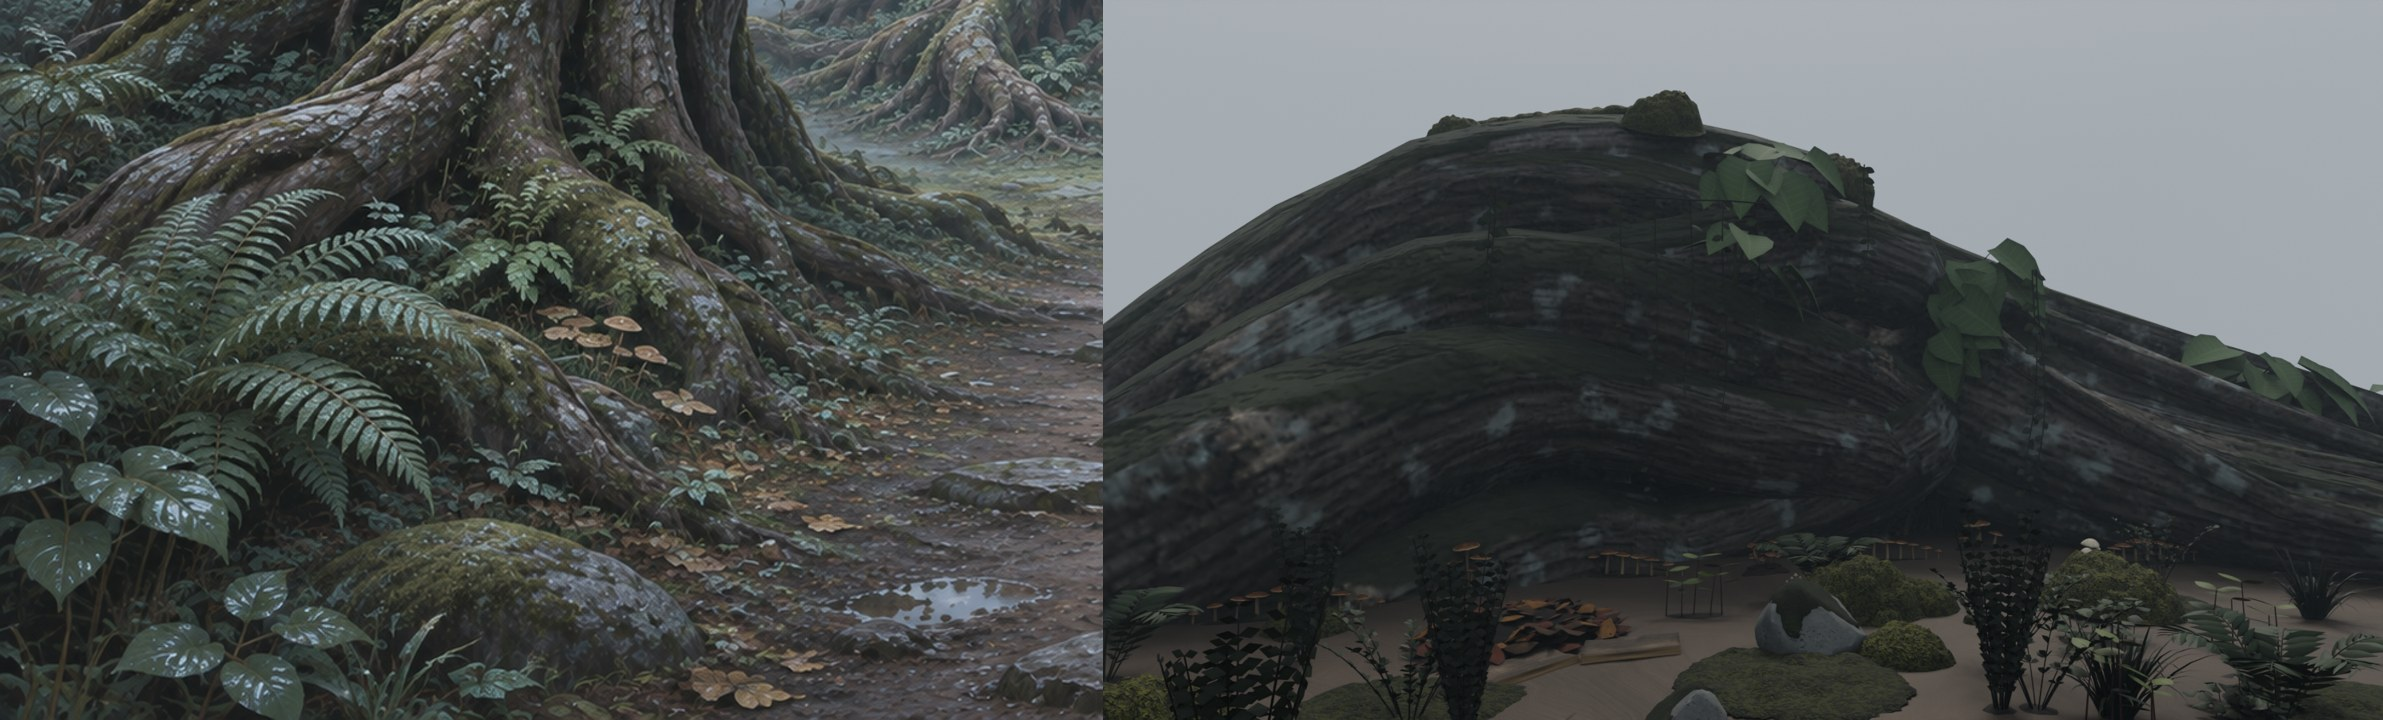
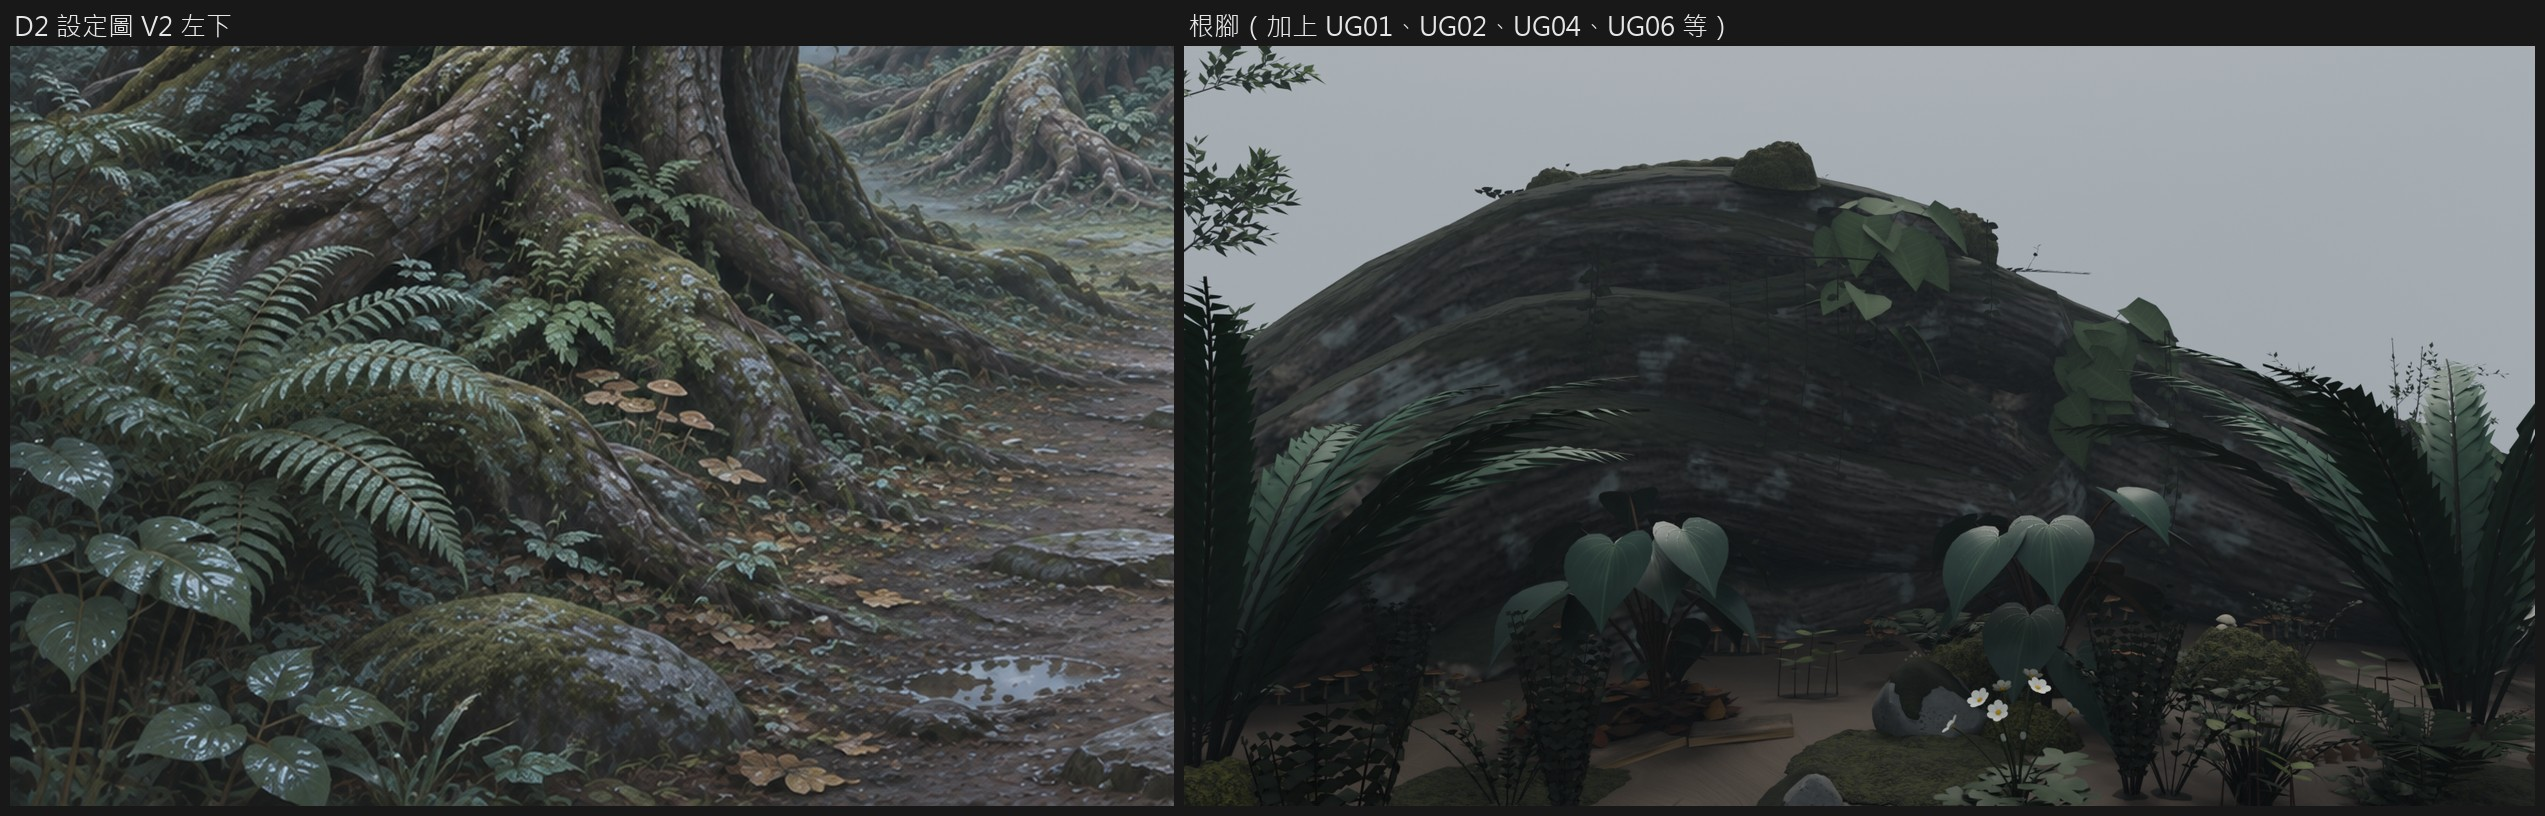
全包檢查重拍：加上 SH02、SP01、UG01–UG06（林地一角和根腳自評各約 35%）

diff --git a/art/source/d2-floor-c/pack_check.py b/art/source/d2-floor-c/pack_check.py
@@ -1,5 +1,5 @@
 """Whole-pack check for C's 11/15 D2 small-life pack (C-300h-D2-small-life.md, 全包檢查): A (DP01–04 mushrooms), B (DP06–13 moss and
-small plants), C (DP14–22 floor smalls) and SH01, set out as (1) a 5 × 5 m forest-floor corner framed like setting view V6 and
+small plants), C (DP14–22 floor smalls), and from the 11/14 pack batch B the undergrowth SH01–02, SP01, UG01–06 (2026-11-24), set out as (1) a 5 × 5 m forest-floor corner framed like setting view V6 and
 (2) a root foot (one of Josh's D2 roots with mushrooms, moss and vines) framed like the lower left of V2.
 Blender 4.5.3:  blender -b --factory-startup -P pack_check.py -- --dirs <export dir> [<export dir> ...] --out <dir> [--samples 96]
 The export dirs are searched in order for <ID>_v002.glb, then <ID>_v001.glb (and for Josh's DR roots / logs in their sub-folders).
@@ -134,6 +134,15 @@ def corner():
     for pid,x,y,r in (('DP17_08',1.05,-.5,.4),('DP17_07',-.35,-1.75,1.),('DP17_06',.35,-1.5,2.2),('DP17_04',-.15,-.95,.3),('DP17_05',-.95,-.55,1.1),
                       ('DP14_06',.75,-.95,.5),('DP14_05',.85,-.75,.3),('DP14_08',.45,-.35,1.3),('DP14_07',-.4,.9,.2),('DP16_06',-1.3,.35,.9),('DP16_05',-1.05,.85,2.)):load(pid,x,y,r)
     load('DP22_01',.05,-.6,.3,sink=0.);puddle(.05,-.6,.32,.22)
+    # 11/14 batch B undergrowth: waist-high ferns and strap-leaved plants on the right by the log, white flowers lower right,
+    # heart-leaved plants and a fern on the left bank, leaf heaps by the path, a vine along the log, shrubs and saplings behind
+    for pid,x,y,r in (('UG01',2.05,.85,.4),('UG01',-1.95,.35,2.2),('UG01',.95,1.75,1.3),('UG03',1.05,.55,.8),('UG03',1.35,-.45,2.6),('UG02',-1.55,-1.15,.9),('UG02',-2.25,1.2,2.9),
+                      ('UG04',1.0,-1.05,.3),('UG04',.75,-1.35,1.9),('UG04',1.3,-1.3,4.),('UG04',-.8,-1.2,.7),('UG05_01',-.7,-1.55,.4),('UG05_02',-1.05,1.75,2.),('UG05_01',.95,1.05,3.5),
+                      ('SH02',-1.25,3.1,.2),('SH02',2.35,3.35,2.5),('SH01',.95,3.9,4.1),('SP01',.45,4.6,.3),('SP01',-1.85,4.4,2.)):load(pid,x,y,r)
+    lt=[(t_,surface(2.6+.25*t_*math.cos(-.79),-.9+.25*t_*math.sin(-.79))) for t_ in range(-6,7)]   # the top of the fallen trunk along its length
+    for pid,k in (('UG06_02',4),('UG06_01',9)):
+        t_,h=lt[k];x=2.6+.25*t_*math.cos(-.79);y=-.9+.25*t_*math.sin(-.79)
+        if h[1] is not None and h[0]>.2:load(pid,x,y,-.79,z=h[0]-.004,tilt=False)
     scatter(rng,['DP17_01','DP17_02','DP17_03','DP14_01','DP14_02','DP14_03','DP14_04','DP16_01','DP16_02','DP16_03','DP16_04','DP18_01','DP18_02','DP18_03'],34,(-2.4,2.4,-2.2,2.4),
             avoid=((2.7,0.,.9),(-1.75,1.,.7),(.05,-.6,.35)))
     green=['DP09_01','DP09_02','DP09_03','DP09_04','DP06_01','DP06_06','DP06_02','DP08_01','DP08_02','DP08_03','DP11_01','DP07_02','DP07_05']
@@ -173,6 +182,11 @@ def rootfoot():
                       ('DP06_06',x0+1.8,ff-.6,0.),('DP09_02',x0+1.1,ff-.45,0.),('DP09_04',x0+2.0,ff-1.05,.7),('DP19_02',x0+.6,ff-.55,.3),('DP04_03',x0+1.5,ff-.2,.4),
                       ('DP02_01',x0+2.6,ff-.15,1.),('DP11_01',x0+2.9,ff-.8,.3)):load(pid,x,y,r,support=[SUP[0]])
     scatter(rng,['DP17_01','DP17_03','DP14_02','DP14_03','DP16_02','DP16_04'],12,(x0-.6,x1,ff-1.7,ff-.3))
+    # 11/14 batch B: big ferns and heart-leaved plants in front of the root (V2 lower left), white flowers, a leaf heap, vines along its back
+    for pid,x,y,r in (('UG01',x0-.2,ff-.9,.3),('UG01',x0+2.4,ff-1.3,2.4),('UG02',x0+.7,ff-.6,1.),('UG02',x0-.7,ff-1.6,2.6),('UG02',x0+1.6,ff-.9,4.4),
+                      ('UG04',x0+1.25,ff-1.55,.5),('UG03',x1+.2,ff-.6,1.7),('UG05_01',x0+2.0,ff-.45,.8),('SH02',x1+1.0,ff+.8,.5),('SP01',x0-1.4,ff+1.6,1.)):load(pid,x,y,r,support=[SUP[0]])
+    for pid,k in (('UG06_02',2),('UG06_03',7),('UG06_01',10)):
+        if k<len(W):x,f,t=W[k];load(pid,x,t[0],0.,z=t[1]-.004,tilt=False)
     scatter(rng,['DP08_01','DP08_02','DP08_03','DP06_01','DP06_06','DP06_02','DP09_01','DP09_02','DP09_04','DP11_01','DP07_02'],30,(x0-1.2,x1+.3,ff-1.9,ff-.15))   # V2 lower left: ferns and moss right up to the root
     tz=max(w[2][1] for w in W);camera(((x0+x1)/2-.9,ff-3.1,.6),((x0+x1)/2,ff+.6,tz*.4),26);shot('v2-rootfoot')
 

diff --git a/art/previews/d2-floor-c/pack-check/README.md b/art/previews/d2-floor-c/pack-check/README.md
@@ -1,6 +1,6 @@
 # 全包檢查（C-300h-D2-small-life.md 最後一節）
 
-2026-11-23，C（Eli-0731）。照工作包擺兩張，和 D2 設定圖並排：
+2026-11-23，C（Eli-0731）。照工作包擺兩張，和 D2 設定圖並排。**2026-11-24 重拍**：加上 11/14 包 B 批的 SH02、SP01、UG01–UG06（見最後一節）。
 
 | 圖 | 內容 |
 |---|---|
@@ -14,15 +14,14 @@
   - A 批：DP01–DP04，分支 art/c-1115-d2-mushrooms。
   - B 批：DP06–DP13，分支 art/c-1115-d2-moss-plants。
   - C 批：DP14–DP22，本分支。
-  - SH01：分支 art/c-1114-sh-ug-undergrowth。
+  - SH01–SH02、SP01、UG01–UG06：分支 art/c-1114-sh-ug-undergrowth。
   - main 上 Josh 的 DR06 倒木（林地一角右側）和 DR03 根端（根腳）。
 - 每件用向下射線放在底下的地面、倒木、根或樹樁上，蕈和苔會貼在表面。
-- **UG01–UG06 還沒做，這兩張沒有 UG。** SH02、SP01 也還沒做。
 - 下面這些只在預覽裡用，不是交付件，也不代表遊戲內的樣子：
   - 地面、水窪的水面、霧和光線。John 的 DS01 林床和 DS03 水窪不在 main 上。
   - 渲染用 Blender Cycles，不是 Unity URP。
 
-## 自評：林地一角約 30%，根腳約 30%
+## 自評（2026-11-23，加 UG 之前）：林地一角約 30%，根腳約 30%
 
 兩張的構圖、物件種類和位置對得上 V6、V2：
 - 林地一角：左邊有朽樁、斷枝和褐蕈；右邊有倒木、白蕈和蕨；路上有小石、細枝、落葉和水窪。
@@ -47,3 +46,19 @@
 **未驗**：
 - 沒放進 Unity 正式場景。
 - 沒在手機上看過效果；不寫幀率。
+
+## 2026-11-24 重拍：加上 SH02、SP01、UG01–UG06
+
+**擺了什麼**
+- 林地一角：UG01 大蕨三叢（左岸、右後）、UG03 長舌葉兩叢（倒木前）、UG02 心形大葉兩叢（左岸）、UG04 白花四叢（右下和左下，對 V6 右下的白花）、UG05 落葉堆三個（路邊）、SH02 兩叢和 SH01 一叢在後、SP01 兩棵在最後；UG06 擺在倒木頂上，但倒木頂超出鏡頭，看不到。
+- 根腳：UG01 兩叢、UG02 三叢在根前（對 V2 左下的大蕨和心形葉）、UG04 白花、UG03、UG05、SH02、SP01；UG06 三段沿根背，這個距離看不出來。
+
+**自評：林地一角約 35%，根腳約 35%**（上次各約 30%）
+- 補上了：V6 右下的白花、V2 左下的大蕨和心形大葉、林間的小灌木和幼樹。根腳那張的前景構圖最接近設定圖。
+- 還差的：
+  1. 地面還是大片裸土：要等 John 的 DS01 林床。
+  2. 苔的形狀和倒木、根的尺寸（見上面 3、5 項）沒變。
+  3. SH01、SH02、SP01 背著天空時葉子接近黑色剪影；設定圖的小樹葉偏亮黃綠、有透光感。
+  4. UG 的蕨和心形葉比設定圖暗、葉面比較平；UG06 在這兩個鏡頭裡看不出來。
+  5. 細碎物、零散落葉仍然太稀。
+- 未驗：沒放進 Unity 正式場景；沒在手機上看過；不寫幀率。
